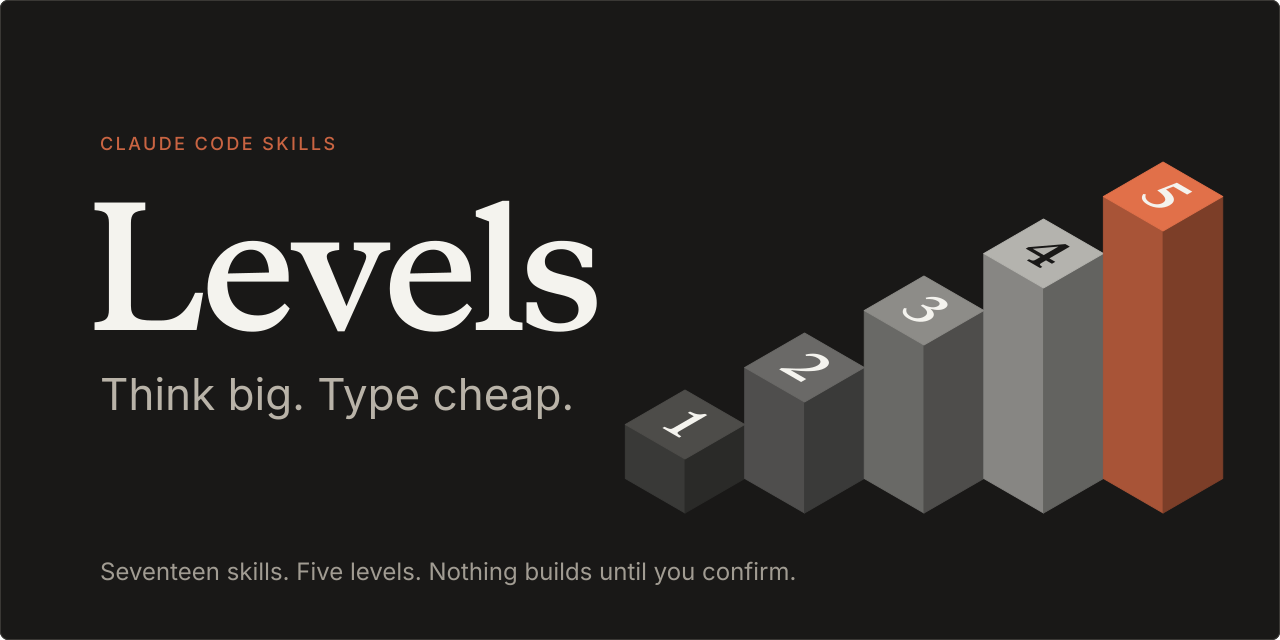
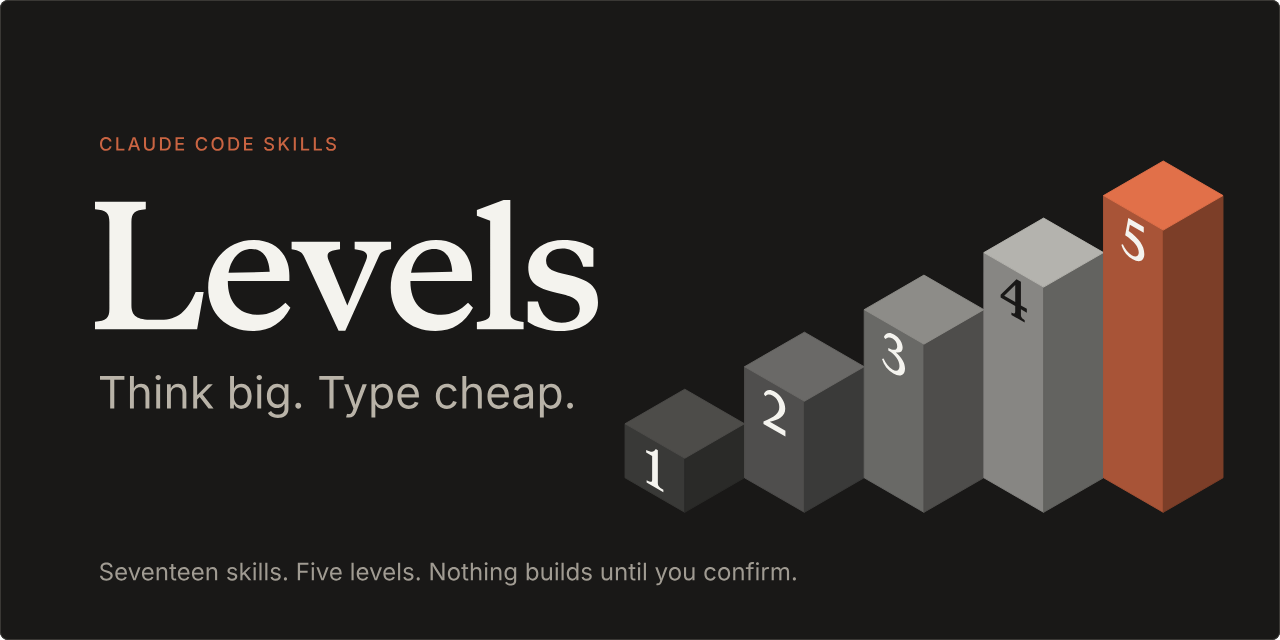
Make the README readable without images and fix repo presentation (#1)
- Add text versions of the levels matrix and the example output under
  their images, so they can be read on a phone, by screen readers and
  by search.
- Move "See it run" above Install and drop the tagline repeated under
  the banner.
- Replace the static version, skill-count and "for" badges with the
  validate workflow badge.
- Draw the banner digits upright on the front of each cube and add
  docs/assets/social-preview.svg as the source of the social preview PNG.
- Rename security-level level 1 from Clean to Basic.
- Add .gitattributes so GitHub reports the repo as Markdown, not Python.
- Use the plugin's description for the marketplace too.

Claude-Session: https://claude.ai/code/session_012mpbRoTySDLYhqHGrP5tGW

diff --git a/README.md b/README.md
@@ -4,16 +4,14 @@
 
 <p align="center">
   <a href="LICENSE"><img alt="License: MIT" src="https://img.shields.io/badge/license-MIT-c96442?labelColor=191817"></a>
-  <img alt="Version 0.1.0" src="https://img.shields.io/badge/version-0.1.0-c96442?labelColor=191817">
-  <img alt="17 skills" src="https://img.shields.io/badge/skills-17-c96442?labelColor=191817">
-  <img alt="For Claude Code" src="https://img.shields.io/badge/for-Claude%20Code-c96442?labelColor=191817">
+  <a href="https://github.com/codezeroexe/levels/actions/workflows/validate.yml"><img alt="Validate" src="https://github.com/codezeroexe/levels/actions/workflows/validate.yml/badge.svg"></a>
 </p>
 
 <p align="center">
+  <a href="#see-it-run">See it run</a> ·
   <a href="#install">Install</a> ·
   <a href="#quick-start">Quick start</a> ·
   <a href="#why-levels">Why Levels</a> ·
-  <a href="#see-it-run">See it run</a> ·
   <a href="#the-levels">The levels</a> ·
   <a href="#how-a-run-goes">How a run goes</a> ·
   <a href="#skills">Skills</a> ·
@@ -22,9 +20,41 @@
 
 # Levels
 
-**Think big. Type cheap.**
-
 Levels is a set of seventeen skills for Claude Code. Each layer skill rates one part of a project (interface, backend, tests, security and so on) on a scale from 1 to 5, shows what is missing for the level you choose, and proposes options. If you ask it to build, it splits the work into small sub-plans and hands them to cheaper models, after showing you the plan and asking first.
+
+## See it run
+
+<p align="center">
+  <img src="docs/assets/session.svg" alt="Illustrative output of an audit and of the delegation gate. The same output is in text below." width="100%">
+</p>
+
+<details>
+<summary>The example output as text</summary>
+
+```
+$ /design-level 3 audit
+Level now: 0. Target: 3.
+Evidence: public/index.html:3 has one inline style rule and no viewport tag.
+Open gaps: 9
+Top gaps: phone layout, type scale, palette with roles.
+
+Note: level 3 is too high for a one-screen notes tool. Level 2 fits.
+```
+
+```
+$ /design-level 2 build
+Delegation: 6 sub-plans on Haiku, 2 on Sonnet. Review on Opus.
+
+Proceed?
+> Delegate as planned
+  Haiku only
+  Sonnet for all
+  No delegation
+```
+
+</details>
+
+This is example output, adapted from the [first test run](docs/example-LEVELS.md) on a one-page notes app. The delegation counts in the build panel are illustrative. Your output depends on your project.
 
 ## Install
 
@@ -88,19 +118,32 @@ Layer skills start in `audit` mode unless you say `build`. An audit rates and pr
 
 **It tells you when to stop.** Level 5 is not the goal. The skills are written to say when a target is too high for the product. In the [first test run](docs/example-LEVELS.md), the interface audit of a one-screen notes tool noted that level 3 was too high and level 2 fit.
 
-## See it run
-
-<p align="center">
-  <img src="docs/assets/session.svg" alt="Illustrative output of an audit and of the delegation gate." width="100%">
-</p>
-
-This is example output, adapted from the [first test run](docs/example-LEVELS.md) on a one-page notes app. The delegation counts in the build panel are illustrative. Your output depends on your project.
-
 ## The levels
 
 <p align="center">
-  <img src="docs/assets/levels-matrix.svg" alt="The five named levels of each of the thirteen layer skills." width="100%">
+  <img src="docs/assets/levels-matrix.svg" alt="The five named levels of each of the thirteen layer skills. The same names are in the table below." width="100%">
 </p>
+
+<details>
+<summary>The levels as a table</summary>
+
+| Skill | 1 | 2 | 3 | 4 | 5 |
+|---|---|---|---|---|---|
+| `idea-level` | Spark | Shaped | Tested | Validated | Blueprint |
+| `ux-level` | Possible | Clear | Guided | Observed | Tuned |
+| `restyle-level` | Directions | Sketch | Mockup | Prototype | Handover |
+| `data-level` | Stored | Structured | Trustworthy | Governed | Platform |
+| `backend-level` | Working | Reliable | Production | Hardened | Scale |
+| `design-level` | Clean | Considered | Branded | Studio | Showcase |
+| `test-level` | Checked | Core covered | Trusted | Proven | Continuous |
+| `security-level` | Basic | Guarded | Defended | Hardened | Assured |
+| `perf-level` | Acceptable | Measured | Budgeted | Guarded | Optimised |
+| `code-level` | Readable | Organised | Sound | Sustainable | Exemplary |
+| `docs-level` | Present | Usable | Complete | Maintained | Published |
+| `ship-level` | Runnable | Repeatable | Releasable | Operated | Resilient |
+| `pitch-level` | Stated | Shown | Convincing | Rehearsed | Campaign |
+
+</details>
 
 - Each level includes everything in the levels below it.
 - Your current level is the highest level whose requirements, and those of every level below it, are all met.

diff --git a/skills/security-level/SKILL.md b/skills/security-level/SKILL.md
@@ -32,7 +32,7 @@ You are the security lead on this project. Work to the LEVEL. The levels describ
 
 Each level includes everything in the levels below it. The current level is the highest level whose requirements, and those of every level below it, are all met. Record a project that does not meet level 1 as level 0. List requirements already met above the current level as ahead.
 
-1. **Clean.** No secrets in the code or its history. No dependency with a known critical vulnerability. Input is validated where it enters. Errors and logs do not leak internals. Traffic is encrypted wherever the product is reachable beyond one machine.
+1. **Basic.** No secrets in the code or its history. No dependency with a known critical vulnerability. Input is validated where it enters. Errors and logs do not leak internals. Traffic is encrypted wherever the product is reachable beyond one machine.
 2. **Guarded.** Everything that needs sign-in requires it. Every action checks on the server that this user may do this to this resource. Credentials are stored with a proper slow hash. Sessions expire and can be ended. Queries, commands, paths and templates cannot be injected into. Output is encoded for where it is shown. Requests cannot be forged across sites. Cookies and response headers are set safely.
 3. **Defended.** A written threat model names the assets, the likely attackers, the entry points and the trust boundaries. Rate limits and lockouts on anything that can be guessed or flooded. Each process, account and key has only the access it needs. Security events are logged, without sensitive data. Uploads and file paths are handled safely. Secrets live outside the code and can be rotated. Dependencies are checked automatically.
 4. **Hardened.** Abuse cases run as automated tests. Records that matter cannot be changed without trace. A second control stands behind each critical one. A written plan says what to do when something is breached. Changes to sensitive code get a security review. Risky parts run isolated. Backups are protected as carefully as the live data. A structured attack on the user's own local copy has been walked through.

diff --git a/CHANGELOG.md b/CHANGELOG.md
@@ -32,6 +32,10 @@ First packaged version.
 - `data-level`, `pitch-level` and `idea-level` use the shared handoff rule and delegation line word for word.
 - `docs/example-LEVELS.md`, a filled-in record from the test run.
 
+### Changed
+
+- `security-level` level 1 is named Basic instead of Clean, so `design-level` is the only skill with a level called Clean.
+
 ### Removed
 
 - `fullstack-level`. `levels` runs `backend-level` and `design-level` in order and now carries the cross-layer check. `idea-level`, `design-level`, `backend-level`, `restyle-level` and `levels-next` point to `levels` or to the single layer skills instead.
